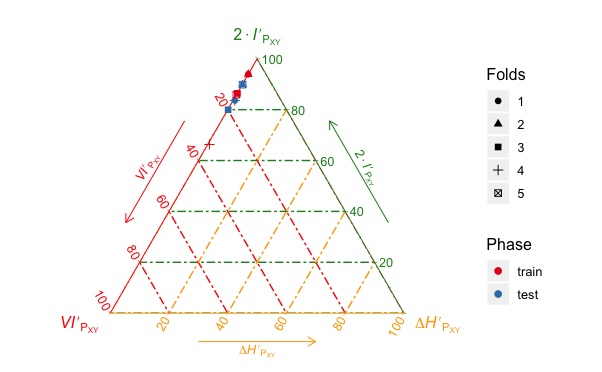
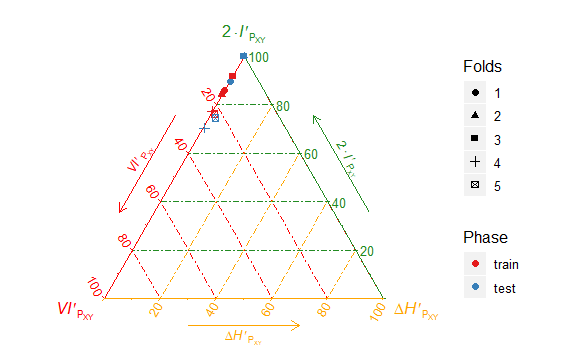
Adding changes to Results

diff --git a/Plantilla_TFG/chResults.tex b/Plantilla_TFG/chResults.tex
@@ -1,4 +1,5 @@
-In this section we will be presenting the results regarded from the different experiments performed over the datasets using the methods previously introduced. All the experiments will have different sets of requirements and levels of complexity, which will help us discern the capabilities of the tools involved. To be able to do so, we have to establish the same structures of tests.
+\section{Structure of the experiments}
+In this section we will be presenting the results regarded from the different experiments performed over the datasets using the methods previously introduced. All the experiments will have different sets of requirements and levels of complexity, which will help us discern the capabilities of the tools involved. To be able to do so, we have to establish the same structured tests \footnote{Due to the impossibility of using caret::train on MNIST (Every laptop I tried to use for this purpose would just get stuck and force the closing of RStudio), we will be not be using Knn to compare results on PCA and the Autoencoder. }. \par
 
 \begin{figure}[H]
 \begin{subfigure}{1\linewidth}  
@@ -35,24 +36,26 @@ As seen in Figure \ref{fig:Autoencoder_architecture}, we will use the representa
   \caption{PCA and KNN.}
   \label{fig:FigB_PCA_KNN} 
 \end{subfigure}
-  \caption{Structure of the PCA and it's classifiers}
+  \caption{Structure of the PCA and its classifiers}
  \label{fig:PCA_architecture}
 \end{figure}
 
-If we compare both the structures presented here, we can see in the images in Figure \ref{fig:PCA_architecture} that we will be using the output from the PCA as the input of the classifiers, as well as that we will have the same classifiers used in both architectures, with the aim to be able to compare their results.\par
+If we compare both diagrams presented here, we can see in the images in Figure \ref{fig:PCA_architecture} that we will be using the output from the PCA as the input of the classifiers, as well as that we will have the same classifiers used in both architectures, with the aim to be able to compare their results.\par
 
 As we are also concern about the reliability of them too, we will be including another technique to try to validate our results as much as possible: K-Fold validation. \par
 
 K-Fold is a method which is based on dividing a dataset into K folds, each one of them not sharing the same elements on their observations. We are interested into really asserting how each of the Folds of our datasets performs by fitting them through the structures presented in both Figure \ref{fig:Autoencoder_architecture} and \ref{fig:PCA_architecture}. Once we have each one of them complete the full training process, we will analyse the output plus the summation of the overall results. We expect our Folds to provide us with similar data and results in our plots when we use balanced datasets. However, if we have unbalanced datasets we expect to see more inconsistency through them.\par
 
-At the end of each section, the overall performance of each dataset will be tested with the Entropy Triangle, which will be used to compare the entropy between the data of each Fold generated at the beginning of the process and the output of the classifier.
+The Iris dataset experiment will be thoroughly described and explained as we will be using it as an example of to perform the methods and theory explained on the previous chapters of the report. The remaining experiments will avoid unnecessary explications regarding concepts re-used from the Iris experiment.\par
+
+At the end of each section, the overall performance of each dataset will be tested with the Entropy Triangle, which will be used to compare the entropy between the data of each Fold and the output of used classifier.
 
 \section{Iris Dataset}
 \subsection{Data Preparation}
 
-In order to train the data through the Autoencoder, we will firstly have to transform it into an easier shape which will reduce the difficulty and length of our task. Normally, Deep Neural Networks will do a good job as long as the data has a reasonable scalability, so applying a normalisation to our data is not mandatory. However, it is easier for us to use a simple pre-processing in our data, which given that the observations from the variables have different ranges of values will help us reduce the training time of our Autoencoder.
+In order to train the data through the Autoencoder, we will firstly have to transform it into an easier shape which will reduce the difficulty and length of our task. Normally, Deep Neural Networks will do a good job as long as the data has a reasonable scalability, so applying a normalization to our data is not mandatory. However, it is easier for us to use a simple pre-processing in our data, which given that the observations from the variables have different ranges of values will help us reduce the training time of our Autoencoder.
 
-Although as we can see from Figure \ref{ig:figure_pairs_iris} and Table \ref{tab:table_Iris}, some of its features are closer to what it could be referred as a Normal distribution, specially Sepal Length and Sepal Width. Other's, such as Petal Length, are a little bit off and far away from that description. To be able to fix those disparities, we will apply a Box-Cox transformation, which consist basically of applying the following equation on your data:
+Although as we can see from Figure \ref{fig:figure_pairs_iris} and Table \ref{tab:table_Iris}, some of its features are closer to what it could be referred as a Normal distribution, specially Sepal Length and Sepal Width. Other variables, such as Petal Length, are a little bit off and far away from that description. To be able to fix those disparities, we will apply a Box-Cox transformation, which consist basically of applying the following equation on your data:
 
 \begin{equation}
 \label{eq:box-cox}
@@ -65,7 +68,7 @@ Although as we can see from Figure \ref{ig:figure_pairs_iris} and Table \ref{tab
  \end{equation} 
 \newline
 
-Where $\lambda$ is an exponent which value inside the range $[-5,5]$. The Box-Cox method will automatically assign the value of lambda that fits your dataset the most. This value is selected simply by looking for the optimum value by fitting the equation \ref{eq:box-cox} . \par
+Where $\lambda$ is an exponent with a value inside the range $[-5,5]$. The Box-Cox method will automatically assign the value of lambda that fits your dataset the most. This value is selected simply by looking for the optimum value by fitting the equation \ref{eq:box-cox} . \par
 
 Once we apply this function, we can start to see the results on our newly created data by checking its pairs function again:
 
@@ -98,7 +101,7 @@ By looking at the Table on top, it can be seen that as expected the Mean of our 
 
 \subsection{The Autoencoder}
 
-For the Iris dataset, we will use a simple Autoencoder, with just a few layers, that should be enough to complete the training required. As our given dataset doesn't contain a lot of observations, this approach to the Autocoder has the aim to show an example of use. That is why , if we take into account that we only have for variables to compress, we can see that the maximum compression we can achieve is a 25 percent of the original size. But, in order to be sure we have a working architecture, I will be using just a 75 percent compression in the middle layer. On the other hand, our model will have a data expansion of about 400 percent, so that we are able to do a real compression in each of the subsequent layers. \par
+For the Iris dataset, we will use a simple Autoencoder, with just a few layers, that should be enough to complete the training required. As our given dataset doesn't contain a lot of observations, this approach to the Autoencoder aims to show an example of use. That is why, if we take into account that we only have four variables to compress, we can see that the maximum compression we can achieve is a 25 \% of the original size. But, in order to be sure we have a working architecture, I will be using just a 75 \% compression in the middle layer. On the other hand, our model will have a data expansion of about a 400 \%, so that we are able to do a real compression in each of the subsequent layers. \par
 
 \begin{figure}[H]
 	\centering
@@ -107,13 +110,13 @@ For the Iris dataset, we will use a simple Autoencoder, with just a few layers, 
 	\label{fig:figure_autoencoder_Iris}
 \end{figure}
 
-On Figure \ref{fig:figure_autoencoder_Iris}, each of the layers has the size assigned below it. But before choosing the compilation method we are going to use for the Autoencoder, we have to choose the activation functions for each layer. In this case, we decided that the Relu function would be used (for all the layers of the Autoencoder except the last one), where we will use a sigmoid function. We decided to use this setup because the Relu function does a good job at selecting the informational qualities of each component while at the same time keeping the training time of the architecture very low due to the simplicity of its definition, while the sigmoid function is more complex and thus seems to be suited for the last layers and to finalise the transferring of information. \par
+On Figure \ref{fig:figure_autoencoder_Iris}, each of the layers has the size assigned below it. But before choosing the compilation method we are going to use for the Autoencoder, we have to choose the activation functions for each layer. In this case, we decided that the Relu function would be used \textbf{for all the layers of the Autoencoder except the last one}, where we will use a Sigmoid function. We decided to use this setup because the Relu function does a good job at selecting the informational qualities of each component while at the same time keeping the training time of the architecture very low due to the simplicity of its definition, while the Sigmoid function is more complex and thus seems to be suited for the last layers and to finalize the transferring of information. \par
 
-The last thing to take into account is the compilation of the whole structure created with the previously mentioned Autoencoder. Here, we will have to choose between the wide range of available options on the keras package, to try to maximise the performance and optimisation of our model. To do so, we have to first rule out all the loss functions that don't apply to our task. For example, although used in a lot of DNNs, the categorical functions don't fit our criteria since we are not performing a classification task here. Moreover, our range of data is not between 0 and 1, which would make this even a worst choice. For us, since we also are trying to predict the output data using some training data, we can assume we have a (regression problem) in our hands.\par
+The last thing to take into account is the compilation of the whole structure created with the previously mentioned Autoencoder. Here, we will have to choose between the wide range of available options on the keras package in R, to try to maximize the performance and optimization of our model. To do so, we have to first rule out all the loss functions that don't apply to our task. For example, although used in a lot of DNNs, the categorical functions don't fit our criteria since we are not performing a classification task here. Moreover, our range of data is not between 0 and 1, which would make this even a worst choice. For us, since we also are trying to predict the output data using some training data, we can assume we have a \textbf{regression problem} in our hands.\par
 
-Having stablished that, we have a narrower set of possible choices to make. Between all of the available, we decided to use the (Mean Squared Error function). The MSE is calculated as the average of the squared differences between the predicted and the original values. This means that the bigger the difference them, the more punitive this metric is for our model. This works great for the intent of our experiments, since we want our model to be able to get very accurate predictions from the compressed version of our data. \par
+Having established that, we have a narrower set of possible choices to make. Between all of the left available ones, we decided to use the \textbf{Mean Squared Error function}. The MSE is calculated as the average of the squared differences between the predicted and the original values. This means that the bigger the difference,  more punitive this metric is for our model. This works great for the intent of our experiments, since we want our model to be able to get very accurate predictions from the compressed version of our data. \par
 
-Finally, we also need to decide on our optimiser for our compilation. Here we decided to narrow our options to chose only between the Adam and the Adadelta options. Finally, it was seen that the Adam optimiser was achieving the same level of losses as the Adadelta, while needing less epochs. Due to the amount of passes that we have to do through the Autoencoder, it is useful for us to get reliable data in the shortest time possible, so it was finally implemented using Adam.This decision would allow us to help mitigate the problem of time, which can be quite demanding when dealing with multiple transformations and neural networks.
+Finally, we also need to decide on our optimizer for the compilation. Here we decided to narrow our options to chose only between the Adam and the Adadelta. Finally, it was seen that the Adam optimizer was achieving the same level of losses as the Adadelta, while needing less epochs. Due to the amount of passes that we have to do through the Autoencoder, it is useful for us to get reliable data in the shortest time possible, so it was finally implemented using Adam.This decision would allow us to help mitigate the problem of time, which can be quite demanding when dealing with multiple transformations and neural networks.
 
 \subsection{The Classifiers}
 
@@ -130,42 +133,58 @@ The matrices resulting from this compression process may not have all of their c
 	\label{fig:figure_Knn_Iris}
 \end{figure}
 
-The function that we decided to use for our Knn training was provided in the train method in the caret package. It only requires you to specify the training data, labelled as x, the labels to be trained with, named as y, and the method, which is a simple Knn classifier. Once provided, the function will start to train your model. \par
+The function that we decided to use for our Knn training was provided in the train method in the caret package. It only requires you to specify the training data, labeled as x, the labels to be trained with, named as y, and the method, which is a simple Knn classifier. Once provided, the function will start to train your model. \par
 
 
-Once the model has finished training, we will use the model generated with our values to predict the labels of our model and compare it to the labels we used to train it on the first place. Once we have calculated that, we will use the confusionMatrix function to asses the accuracy of our predictions when compared to our original labels. A Confusion Matrix is a table with the same number of columns and rows as your class labels, being the only difference that the diagonal represents the predictions from your model and the class labels that matched, while anything outside of it accounts for the number of missed predictions with respect to the class. In this case, this method will provide us with a $3\times3$ matrix which we then can feed to the jentropies method. \par
+Once the model has finished training, we will use the model generated with our values to predict the labels of our model and compare it to the labels used to train it on the first place. Once we have calculated that, we will use the confusion Matrix function to asses the accuracy of our predictions when compared to our original labels. A Confusion Matrix is a table with the same number of columns and rows as your class labels, being the only difference that the diagonal represents the predictions from your model and the class labels that matched, while anything outside of it accounts for the number of missed predictions with respect to the class. In this case, this method will provide us with a $3\times3$ matrix which we then can feed to the jentropies method. \par
 
 
 \begin{figure}[H]
 	\centering
-	\includegraphics[width=1.2\linewidth]{Figuras_tfg/ET_knn_iris_auto}
-	\caption{Entropy Triangle in Knn in Iris using the Autoencoder}
+	\includegraphics[width=\linewidth]{Figuras_tfg/ET_knn_iris_auto}
+	\caption{Entropy Triangle using Autoencoder + Knn in Iris}
 	\label{fig:figure_Knn_Iris_ET_Auto}
 \end{figure}
 
 \begin{figure}[H]
 	\centering
-	\includegraphics[width=1.2\linewidth]{Figuras_tfg/ET_knn_iris_pca}
-	\caption{Entropy Triangle in Knn in Iris using the PCA}
-	\label{fig:figure_Knn_Iris_ET_PCA}
+	\includegraphics[width=\linewidth]{Figuras_tfg/ET_knn_iris_auto_confidence}
+	\caption{Entropy Triangle confidence interval using Autoencoder + Knn in Iris}
+	\label{fig:figure_Knn_Iris_ET_Auto_Confidence}
 \end{figure}
-
-This method will provide us with metrics that then can be used together with the ggmetern method to get a coordinateS inside de Entropy Triangle, which can be seen on both Figure \ref{fig:figure_Knn_Iris_ET_Auto} and \ref{fig:figure_Knn_Iris_ET_PCA}. Given that we are using a K-Folds validation with a value of $K = 5$, we are plotting 5 coordinates for our test and train variables, just to see how well our model performed.\newline
-
-From the Knn on the Autoencoder as seen on Figure \ref{fig:figure_Knn_Iris_ET_Auto}, we can see that the coordinates from the training and testing are close to each other spatially, which means that we have done a good job overall at training our model. Some of the folds seem to have performed worse that the other, but that can just be that the other performed extremely well with their predictions. Specially the First fold seems to provide the best results, as we are getting a perfect classification as well as the optimum information flow on our Entropy Triangle. To completely be able to asses it's quality, we have to see the overall values of the total Confusion Matrix of the testing phase.\par
-
-On the other hand, the PCA on Figure \ref{fig:figure_Knn_Iris_ET_PCA} has a very centralised amount of values. The majority of the phases from the folds seems to be placed around the same area of the Entropy Triangle. No fold has over-performed the others in a greatly manner, which tells us that the results are consistent all throughout the training, which is not the same case as in the Autoencoder case, where the results are more spread. \par
 
 \begin{figure}[H]
 	\centering
-	\includegraphics[width=1.2\linewidth]{Figuras_tfg/Total_ET_Knn_Iris}
-	\caption{Entropy Triangle in Knn in Iris with the testing results}
-	\label{fig:figure_Knn_Iris_ET_PCA_Auto}
+	\includegraphics[width=\linewidth]{Figuras_tfg/ET_knn_iris_pca}
+	\caption{Entropy Triangle using PCA + Knn in Iris}
+	\label{fig:figure_Knn_Iris_ET_PCA}
 \end{figure}
 
-Although the pca has more consistent and less spread results, we can see in Figure \ref{fig:figure_Knn_Iris_ET_PCA_Auto} that the Autoencoder has done an overall better job at providing information for the knn for the classification. Both of them are placed on the side of Triangle $VI_{P_{XY}}$ that accounts for the transference of information, but the Autoencoder is providing a better representation of the data that is allowing the knn to do a better job overall. \par
+\begin{figure}[H]
+	\centering
+	\includegraphics[width=\linewidth]{Figuras_tfg/ET_knn_iris_pca_confidence}
+	\caption{Entropy Triangle confidence interval using PCA + Knn in Iris}
+	\label{fig:figure_Knn_Iris_ET_PCA_Confidence}
+\end{figure}
 
-We can therefore conclude that, in the case of the classification using the  knn on both the PCA and the Autoencoder, we have found the latter to do a better job than the first one informationally speaking, thus leaving us with the assumption that it is the preferred solution for the Iris dataset.
+ Given that we are using a K-Folds validation with a value of $K = 5$, we are plotting 5 coordinates for our test and train variables, just to see how well our model performed.\newline
+
+From Figure \ref{fig:figure_Knn_Iris_ET_Auto} we can see that the values are spatially close inside of the Entropy Triangle. This leads us to believe that the training has been accurate. We usually tend to expect the training and the testing folds to be close if the training process has a balanced set with distinguishable traits differentiating each class from the rest. From the coordinates plotted in the Triangle we can also see that our transformation and classification process has been successful at transmitting the information. By following the guidelines from \ref{chap:BasicPrin} we have a balanced classifier predicting accurately the labels of our classes.  \par
+
+From Figure \ref{fig:figure_Knn_Iris_ET_PCA} we can asses that the conclusions drawn from the Knn of the Autoencoder can also be applied for the PCA. Both figures show a similar behavior, although the Autoencoder has slightly better results as its folds representation is situated closer to the peak of the ET.\par
+
+In addition to plotting the entropic characteristics of the variables, it could be also interesting to take a look at Figure \ref{fig:figure_Knn_Iris_ET_Auto_Confidence} and Figure \ref{fig:figure_Knn_Iris_ET_PCA_Confidence}, which represent the Confidence Intervals of the represented points in the Entropy Triangle. By observing it, we can see that the confidence interval for the Knn in the Autoencoder is spatially greater than the PCA one, leading us to believe that the interval of possible values for the Autoencoder is greater and thus subjected to greater changes in the prediction, probably due to the training uncertainty of the Autoencoder and its effect on the value of $\overline{Z}$. 
+
+%\begin{figure}[H]
+%	\centering
+%	\includegraphics[width=1.2\linewidth]{Figuras_tfg/Total_ET_Knn_Iris}
+%	\caption{Entropy Triangle in Knn in Iris with the testing results}
+%	\label{fig:figure_Knn_Iris_ET_PCA_Auto}
+%\end{figure}
+
+%Although the pca has more consistent and less spread results, we can see in Figure \ref{fig:figure_Knn_Iris_ET_PCA_Auto} that the Autoencoder has done an overall better job at providing information for the knn for the classification. Both of them are placed on the side of Triangle $VI_{P_{XY}}$ that accounts for the transference of information, but the Autoencoder is providing a better representation of the data that is allowing the knn to do a better job overall. \par
+
+%We can therefore conclude that, in the case of the classification using the  knn on both the PCA and the Autoencoder, we have found the latter to do a better job than the first one informationally speaking, thus leaving us with the assumption that it is the preferred solution for the Iris dataset.
 
 \subsubsection{	MLP on PCA and Autoencoder}
 
@@ -184,31 +203,47 @@ After figuring out the structure, we now have to decide which activation functio
 
 \begin{figure}[H]
 	
-	\includegraphics[width=1\linewidth]{Figuras_tfg/ET_Iris_Auto_Mlp}
-	\caption{MLP Entropy Triangle in Iris for the Autoencoder}
-	\label{fig:figure_ET_MLP_Iris_Autoencoder}
+	\includegraphics[width=\linewidth]{Figuras_tfg/ET_Iris_Auto_Mlp}
+	\caption{Entropy Triangle using Autoencoder + MLP in Iris}
+	\label{fig:figure_MLP_Iris_ET_Auto}
 \end{figure}
 
 \begin{figure}[H]
 	
-	\includegraphics[width=1\linewidth]{Figuras_tfg/ET_Iris_Pca_Mlp}
-	\caption{MLP Entropy Triangle in Iris for the Pca}
-	\label{fig:figure_ET_MLP_Iris_Pca}
+	\includegraphics[width=\linewidth]{Figuras_tfg/ET_Iris_Auto_Mlp_Confidence}
+	\caption{Entropy Triangle confidence interval using Autoencoder + MLP in Iris}
+	\label{fig:figure_MLP_Iris_ET_Auto_Confidence}
 \end{figure}
 
-From Figure \ref{fig:figure_ET_MLP_Iris_Pca} has produced again spatially closed coordinates, which tell us that the folds have been very consistent at training our model. The fourth fold seems to have given slightly worse results, but overall the mlp has generated values that are consistent with our prediction that it would work well with Iris. We can also see that most of the values are grouped on the diagonal of the $VI_{P_{XY}}$, which tells us that our folds have been correctly balanced. \par
-
-On the other side, we have Figure \ref{fig:figure_ET_MLP_Iris_Autoencoder} which seems to have slightly better results overall. We can see the same behaviour on the fourth Fold as before, which tells us that the mlp may have struggled on both cases to train that fold. All of the test folds are close spatially and in the previously mentioned $VI_{P_{XY}}$ diagonal as well as placed very highly on the Entropy Triangle, which tells us that the mlp is being able to classify efficiently. \par
- 
- 
 \begin{figure}[H]
 	
-	\includegraphics[width=1\linewidth]{Figuras_tfg/ET_Total_Iris_Mlp}
-	\caption{MLP Entropy Triangle total testing result}
-	\label{fig:figure_ET_Total_MLP_Iris}
+	\includegraphics[width=\linewidth]{Figuras_tfg/ET_Iris_Pca_Mlp}
+	\caption{Entropy Triangle using PCA + MLP in Iris}
+	\label{fig:figure_MLP_Iris_ET_PCA}
 \end{figure}
 
-As in the previous cases, we finally have to look at the overall performance of the mlp. In this case, it can be seen that Figure \ref{fig:figure_ET_Total_MLP_Iris} shows a clear advantage of the Autoencoder for the same task. Moreover, if we compare both the results from the Knn and the MLP, we the MLP has the best results for the classification task. On the other hand, we are not seeing a big difference in the performance of the MLP with respect to the KNN, but that may also be because of the simplicity of the Iris dataset.
+\begin{figure}[H]
+	
+	\includegraphics[width=\linewidth]{Figuras_tfg/ET_Iris_Pca_Mlp_Confidence}
+	\caption{Entropy Triangle confidence interval using PCA + MLP in Iris}
+	\label{fig:figure_MLP_Iris_ET_PCA_Confidence}
+\end{figure}
+
+From Figure \ref{fig:figure_MLP_Iris_ET_Auto} we can see that we have obtained more spatially separated points in our ET with respect to Figure \ref{fig:figure_Knn_Iris_ET_Auto} from the previous section. Nevertheless, it seems that the results from the MLP classifier overall show a better performance at classifying our observations than the Knn for the same $\overline{Z}$. We even see that the third testing fold was classified perfectly.
+
+We observe the same spatial separation and behavior on the PCA transformation by comparing again Figure \ref{fig:figure_MLP_Iris_ET_PCA} with \ref{fig:figure_Knn_Iris_ET_PCA}. Again we are obtaining better results than those from the Knn. \par
+
+On the other hand, Figure \ref{fig:figure_MLP_Iris_ET_PCA_Confidence} and Figure \ref{fig:figure_MLP_Iris_ET_Auto_Confidence} have greater confidence intervals than those presented in the previous section. The uncertainty introduced in the predictive process affects this time both the PCA and the Autoencoder, although we see that the training of the Autoencoder added to the training of the MLP has made our confidence interval in Figure \ref{fig:figure_MLP_Iris_ET_Auto_Confidence} increase greatly. Basically, we can see here that without proper training our folds could specialize in predicting certain class rather than being balanced.
+ 
+\subsection{Final Results} 
+%\begin{figure}[H]
+%	
+%	\includegraphics[width=1\linewidth]{Figuras_tfg/ET_Total_Iris_Mlp}
+%	\caption{MLP Entropy Triangle total testing result}
+%	\label{fig:figure_ET_Total_MLP_Iris}
+%\end{figure}
+
+%As in the previous cases, we finally have to look at the overall performance of the mlp. In this case, it can be seen that Figure \ref{fig:figure_ET_Total_MLP_Iris} shows a clear advantage of the Autoencoder for the same task. Moreover, if we compare both the results from the Knn and the MLP, we the MLP has the best results for the classification task. On the other hand, we are not seeing a big difference in the performance of the MLP with respect to the KNN, but that may also be because of the simplicity of the Iris dataset.
 
 \section{Ionosphere Dataset}
 \subsection{Data Preparation}
